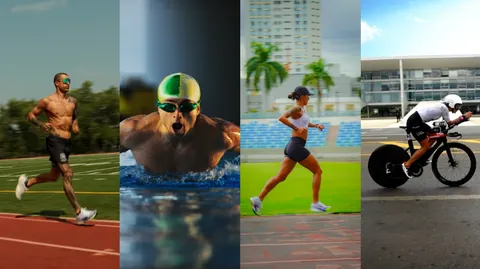
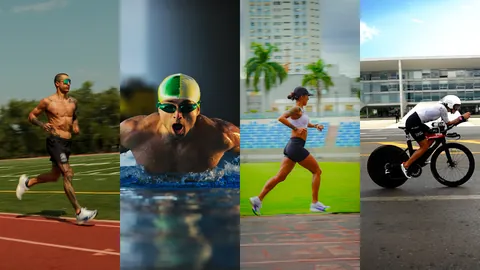
Performance: imagem do topo em alta resolução (1920x1080), v3
perf-hero.webp (1920) + variantes 480/720/960/1440 (substitui a versão 1007px da v2).

diff --git a/README.md b/README.md
@@ -5,25 +5,25 @@ Mídias (imagens, variantes responsivas, capas e vídeos) usadas pelos blocos de
 
 URL base dos arquivos (CDN jsDelivr, **fixada numa versão/tag**):
 
-    https://cdn.jsdelivr.net/gh/Eroscv/livup-lps-midias@v2/lp/
+    https://cdn.jsdelivr.net/gh/Eroscv/livup-lps-midias@v3/lp/
 
-Os blocos usam `@v2` (a versão atual), e não `@main`: o conteúdo de uma tag não muda, então um commit novo aqui nunca altera as páginas
+Os blocos usam `@v3` (a versão atual), e não `@main`: o conteúdo de uma tag não muda, então um commit novo aqui nunca altera as páginas
 publicadas sem querer. (Não use o GitHub raw: serve `.mp4` como `application/octet-stream` e `.webm` como `audio/webm`
 e o vídeo travava no Safari do iPhone.)
 
 ## Arquivos (`lp/`)
 - `bc-*` / `perf-*` / `linha-*` `.webp`: imagens otimizadas; sufixos `-320/-384/-480/-640/-720` são variantes menores (srcset).
 - `*-hero-poster.webp`: capa do vídeo do topo (Baixa Caloria).
-- `perf-hero.webp` (+ `-480`/`-720`): imagem do topo da Performance (colagem de atletas), no lugar do vídeo a partir da `v2`.
+- `perf-hero.webp` (1920×1080) + `-480`/`-720`/`-960`/`-1440`: imagem do topo da Performance (colagem de atletas), no lugar do vídeo a partir da `v2`; em alta resolução a partir da `v3`.
 - `bc-hero*`: vídeo do topo da Baixa Caloria em três formatos (`perf-hero*.mp4/.webm` e `perf-hero-poster.webp` são o vídeo antigo da Performance, usado só na `v1`): `-av1.mp4` (AV1), `.webm` (VP9) e `.mp4` (H.264).
 
 Os blocos escolhem o primeiro formato que o navegador souber tocar. **Não renomeie os arquivos**: os blocos dependem dos nomes.
 
 ## Publicar uma mídia nova ou trocada (nova versão)
 1. Coloque/substitua o arquivo em `lp/` (mantendo o nome se for troca), faça commit e push em `main`.
-2. Crie a tag da próxima versão (a atual é `v2`) e envie: `git tag v3 && git push origin v3`.
-3. Nos blocos do CMS, localize e substitua `livup-lps-midias@v2` por `livup-lps-midias@v3` e republique.
+2. Crie a tag da próxima versão (a atual é `v3`) e envie: `git tag v4 && git push origin v4`.
+3. Nos blocos do CMS, localize e substitua `livup-lps-midias@v3` por `livup-lps-midias@v4` e republique.
 
 Não mova nem reescreva uma tag que já foi usada: a jsDelivr guarda o conteúdo de tags por muito tempo (não dá para limpar).
-Versões anteriores continuam disponíveis, então dá para voltar atrás trocando `@v3` por `@v2`.
+Versões anteriores continuam disponíveis, então dá para voltar atrás trocando `@v4` por `@v3`.
 O repositório precisa continuar **público**.
